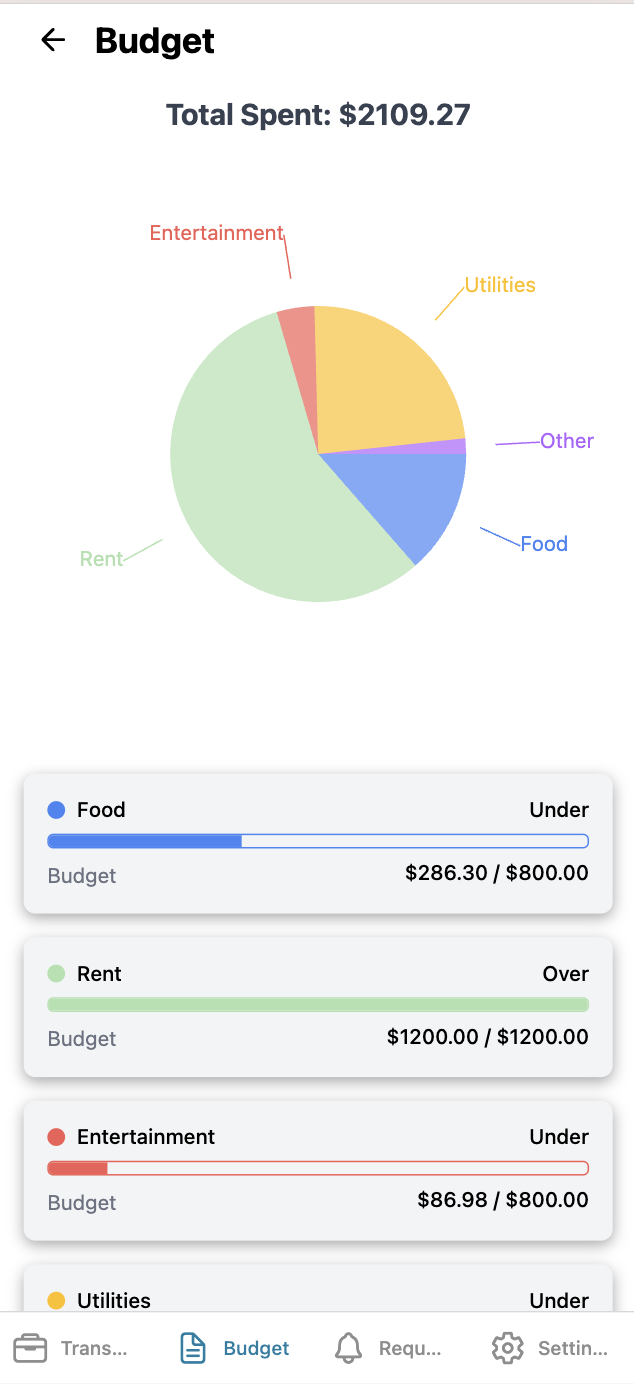
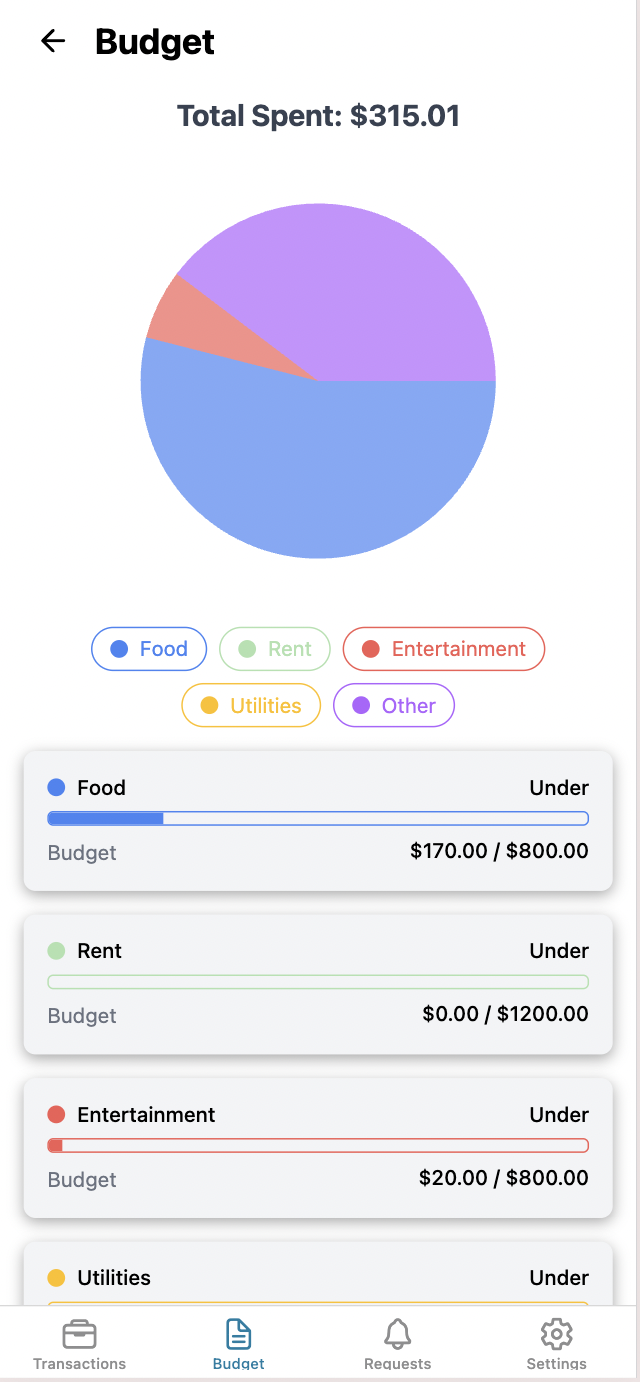
adjusted budget page adding the transactions of the supabase

diff --git a/app/(tabs)/(Budget)/budget.tsx b/app/(tabs)/(Budget)/budget.tsx
@@ -34,6 +34,7 @@ interface Transaction {
   name: string;
   date: string;
   amount: string;
+  type: 'credit' | 'debit';
 }
 
 interface TransactionsData {
@@ -100,29 +101,37 @@ export default function BudgetView() {
       const amounts: { [key: string]: number } = {};
       
       (transactionsData as TransactionsData).transactions.forEach((transaction: Transaction) => {
-        const category = categoryMappings.categories.find(cat =>
-          cat.transactions.some(t => 
-            transaction.name.toLowerCase().includes(t.toLowerCase())
-          )
-        );
+        // Only process debit transactions for budget tracking
+        if (transaction.type === 'debit') {
+          const category = categoryMappings.categories.find(cat =>
+            cat.transactions.some(t => 
+              transaction.name.toLowerCase().includes(t.toLowerCase())
+            )
+          );
 
-        if (category) {
-          if (!amounts[category.label]) amounts[category.label] = 0;
-          amounts[category.label] += parseFloat(transaction.amount);
+          if (category) {
+            if (!amounts[category.label]) amounts[category.label] = 0;
+            // Use absolute value for spending calculations
+            amounts[category.label] += Math.abs(parseFloat(transaction.amount));
+          }
         }
       });
 
       // Build budget items for the pie chart
-      const updatedBudgetItems = categoryMappings.categories.map(cat => ({
-        label: cat.label,
-        color: cat.color,
-        value: amounts[cat.label] / parseFloat(cat.limit),
-        amount: `$${amounts[cat.label] || 0} / $${cat.limit}`,
-        status: amounts[cat.label] >= parseFloat(cat.limit) ? 'Over' : 'Under',
-        limit: cat.limit,
-        spent: (amounts[cat.label] || 0).toString(),
-        textColor: amounts[cat.label] >= parseFloat(cat.limit) ? '#ef4444' : '#22c55e'
-      }));
+      const updatedBudgetItems = categoryMappings.categories.map(cat => {
+        const spent = amounts[cat.label] || 0;
+        const limit = parseFloat(cat.limit);
+        return {
+          label: cat.label,
+          color: cat.color,
+          value: spent / limit,
+          amount: `$${spent.toFixed(2)} / $${limit.toFixed(2)}`,
+          status: spent >= limit ? 'Over' : 'Under',
+          limit: limit.toString(),
+          spent: spent.toString(),
+          textColor: spent >= limit ? '#ef4444' : '#22c55e'
+        };
+      });
 
       setBudgetItems(updatedBudgetItems);
     };
@@ -173,50 +182,42 @@ export default function BudgetView() {
       {/* Pie Chart */}
       {totalSpent > 0 && (
         <View className="items-center py-4">
-          <Svg height="400" width="400" viewBox="-200 -200 400 400">
+          <Svg height="300" width="300" viewBox="-150 -150 300 300">
             <G>
-              {pieChartData.map((item, index) => {
-                const midAngle = (item.startAngle! + item.endAngle!) / 2;
-                const labelRadius = 150;
-                const labelX = labelRadius * Math.cos(midAngle);
-                const labelY = labelRadius * Math.sin(midAngle);
-                
-                const lineEndRadius = 120;
-                const lineEndX = lineEndRadius * Math.cos(midAngle);
-                const lineEndY = lineEndRadius * Math.sin(midAngle);
-
-                return (
-                  <G key={index}>
-                    <PieSlice
-                      cx={0}
-                      cy={0}
-                      radius={100} 
-                      startAngle={item.startAngle!}
-                      endAngle={item.endAngle!}
-                      color={item.color}
-                      onPress={() => setActiveSlice(index)}
-                      isActive={activeSlice === index}
-                    />
-                    <Path
-                      d={`M ${lineEndX} ${lineEndY} L ${labelX} ${labelY}`}
-                      stroke={item.color}
-                      strokeWidth="1"
-                    />
-                    <SvgText
-                      x={labelX}
-                      y={labelY}
-                      fontSize="14"
-                      fill={item.color}
-                      textAnchor={labelX > 0 ? "start" : "end"}
-                      alignmentBaseline="middle"
-                    >
-                      {item.label}
-                    </SvgText>
-                  </G>
-                );
-              })}
+              {pieChartData.map((item, index) => (
+                <G key={index}>
+                  <PieSlice
+                    cx={0}
+                    cy={0}
+                    radius={120} 
+                    startAngle={item.startAngle!}
+                    endAngle={item.endAngle!}
+                    color={item.color}
+                    onPress={() => setActiveSlice(index)}
+                    isActive={activeSlice === index}
+                  />
+                </G>
+              ))}
             </G>
           </Svg>
+          {/* Legend */}
+          <View className="flex-row flex-wrap justify-center gap-2 mt-4 px-4">
+            {pieChartData.map((item, index) => (
+              <TouchableOpacity
+                key={index}
+                onPress={() => setActiveSlice(index)}
+                className="flex-row items-center px-3 py-1 rounded-full"
+                style={{ 
+                  backgroundColor: activeSlice === index ? item.color + '20' : 'transparent',
+                  borderWidth: 1,
+                  borderColor: item.color
+                }}
+              >
+                <View className="h-3 w-3 rounded-full mr-2" style={{ backgroundColor: item.color }} />
+                <Text className="text-sm" style={{ color: item.color }}>{item.label}</Text>
+              </TouchableOpacity>
+            ))}
+          </View>
         </View>
       )}
 

diff --git a/README.md b/README.md
@@ -13,7 +13,7 @@ A React Native app built with Expo for managing personal finances, tracking expe
    <img src="./assets/screenshots/settings.png" width="230" alt="Settings Screenshot"/>
    <img src="./assets/screenshots/profile.png" width="230" alt="Personal Information Screenshot"/>
    <img src="./assets/screenshots/showBankAccounts.png" width="230" alt="Show Bank Accounts Screenshot"/>
-   <img src="./assets/screenshots/addAccount.png" width="230" alt="Add Accounts Screenshot"/>
+   <img src="./assets/screenshots/addAccounts.png" width="230" alt="Add Accounts Screenshot"/>
    <img src="./assets/screenshots/budgetLimits.png" width="230" alt="Budget Limits Screenshot"/>
    <img src="./assets/screenshots/notifications.png" width="230" alt="Notifications Screenshot"/>
    <img src="./assets/screenshots/securitySettings.png" width="230" alt="Security Settings Screenshot"/>
